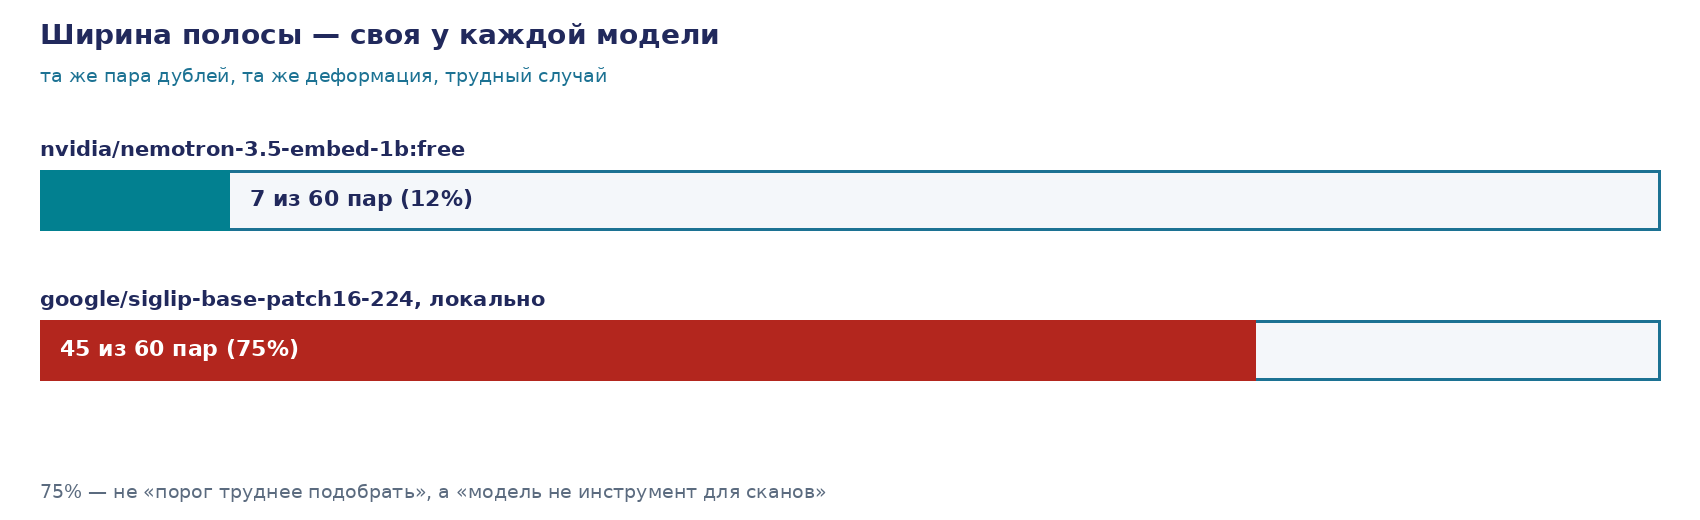
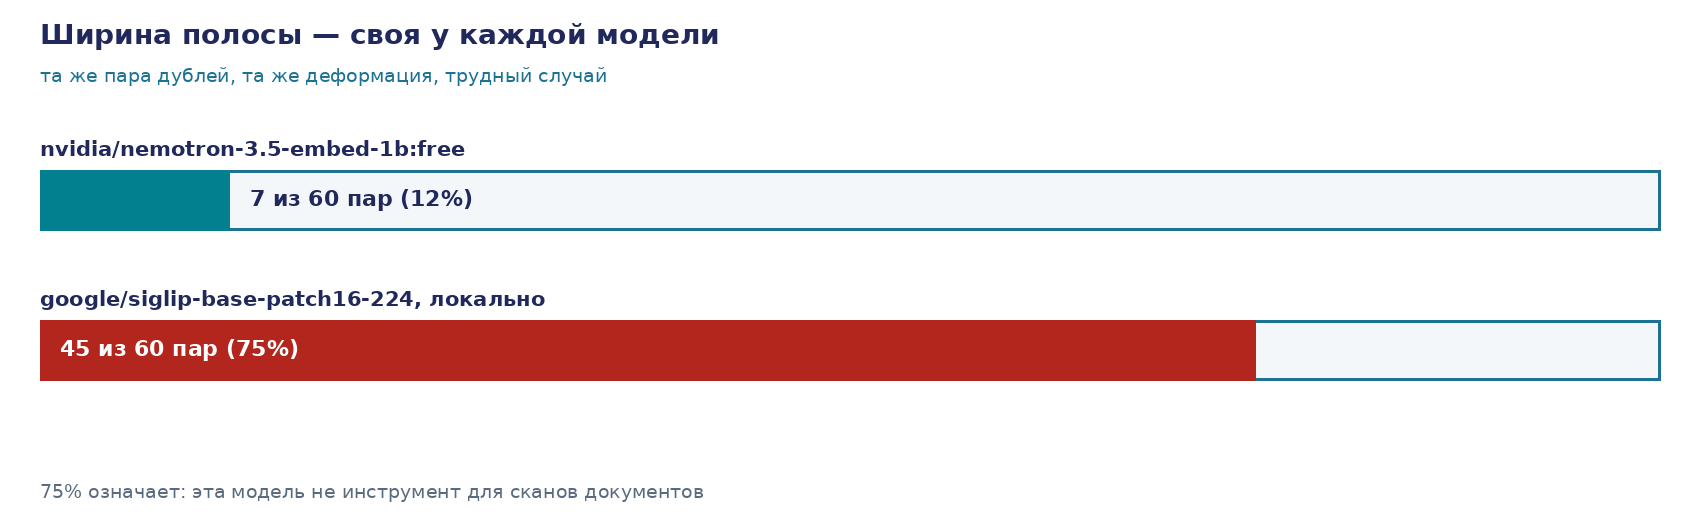
#351 Кейс 4: правка по замечаниям оркестратора — подпись в PNG, заметки до нормы, «методическая»
- case4-model-compare.png: подпись переписана утверждением (была в формате
  «не X, а Y», спрятанном от грепа markdown внутри картинки)
- заметки шести слайдов (n65, n67, n70, n71, n76, n78) доведены до
  коридора 250-450 слов содержательным разбором (чем деформации
  отличаются по сути, как устроен разбор кандидатов, цена границы для
  архива Ольги), не добивкой счёта
- раздел главы: последнее вхождение «методическая» заменено утверждением
- повторный сплошной (не построчный) скан на формат сопоставления
  «не X, а Y» — 0 совпадений в видимом теле всех 15 слайдов и раздела главы

Changed region(s): [[0.0624, 0.9231, 0.4988, 0.9846]]

diff --git a/library/seminars/sem-12/rendered/make_figures_k4.py b/library/seminars/sem-12/rendered/make_figures_k4.py
@@ -229,7 +229,7 @@ def case4_model_compare():
         tc = DEEP if share < 0.6 else W
         d.text((tx, y + 15), f"{label} ({share*100:.0f}%)", font=f(22, True), fill=tc)
         y += 150
-    d.text((bx0, y + 10), "75% — не «порог труднее подобрать», а «модель не инструмент для сканов»",
+    d.text((bx0, y + 10), "75% означает: эта модель не инструмент для сканов документов",
            font=f(19), fill=MUTE)
     save(im, "case4-model-compare.png")
 

diff --git a/library/seminars/sem-12/slides/n70-k4-lyogkiy-sluchay.md b/library/seminars/sem-12/slides/n70-k4-lyogkiy-sluchay.md
@@ -35,4 +35,6 @@ visual:
 
 Такой результат легко спутать с доказательством того, что порог вообще не проблема: раз на одном искажении всё разделилось идеально, может быть, беспокоиться не о чем? Именно для того, чтобы не делать этот поспешный вывод, канон этого курса требует рядом с любым нулевым результатом показывать трудный случай той же самой задачи. Лёгкий случай здесь — необходимая проверка честности, не украшение и не запасной вариант: если бы даже трудный случай дал похожий чистый зазор, это значило бы, что искажение было подобрано слишком мягким и ничего не доказывает. Признак лёгкого случая просто устроен: ответ ищется почти готовым, отличие между классами грубое, задача решается первым попавшимся порогом.
 
-Пересжатие с небольшим изменением размера — это именно такая мягкая деформация: детали документа смещаются незначительно, модель узнаёт исходный документ уверенно. Но у архива Ольги реальные сканы редко ограничиваются аккуратным повторным сканированием: чаще документ переснимают телефоном, под углом, не глядя в видоискатель. Что происходит с тем же порогом, когда искажение становится таким, следующим тактом — и там зазор исчезает.
+Пересжатие с небольшим изменением размера — это именно такая мягкая деформация, и важно понимать почему: уменьшение размера на несколько процентов и более сильное сжатие JPEG меняют яркость отдельных пикселей, но не трогают геометрию документа вообще. Строки текста остаются на тех же местах, таблица — той же формы, края листа — там же, где были. Для модели, которая обучена узнавать документ по расположению крупных элементов и почти не чувствительна к яркости отдельного пикселя, это искажение почти не искажение: внутреннее представление документа в её «памяти» сдвигается на незначительную величину, и узнавание держится уверенно.
+
+Но у архива Ольги реальные сканы редко ограничиваются аккуратным повторным сканированием одного и того же листа на одном и том же сканере: чаще документ переснимают телефоном на бегу, под углом, не глядя в видоискатель, и край кадра обрезает часть листа. Это уже не изменение яркости — это изменение самой геометрии: строки смещаются, пропорции листа меняются, часть содержимого пропадает из кадра насовсем. Что происходит с тем же порогом, когда искажение становится именно таким, разбирается следующим тактом — и там зазор исчезает.

diff --git a/library/seminars/sem-12/slides/n76-k4-realnoe-ustroystvo.md b/library/seminars/sem-12/slides/n76-k4-realnoe-ustroystvo.md
@@ -32,3 +32,5 @@ visual:
 То есть по букве документа ответственная организация уже сделала самый осторожный из четырёх возможных выборов. И этот выбор не спас ни Роберта Уильямса, ни Порчу Вудрафф от ареста. Разрыв между написанным правилом и реальным событием случился не в алгоритме и не в пороге — он случился на следующем шаге процесса, которого эта ось сравнения вообще не описывает: наводку от системы превратили в опознание через отдельную процедуру предъявления для опознания, а эту процедуру, в свою очередь, превратили в основание для ареста.
 
 Это важный урок для самого способа, которым кейс сегодня разбирал четыре варианта. Выбор правильного варианта оси — порог, полоса или список — не гарантирует правильного исхода сам по себе, если организация не контролирует, что происходит с результатом на следующем шаге. Список без вердикта снимает ответственность с модели, но не снимает её с организации: кто-то в цепочке всё равно должен нести полномочие сказать «нет» удобному верхнему кандидату списка, и именно этого полномочия не хватило в обоих описанных случаях. Какое письменное правило появилось после этого — разбирается следующим тактом.
+
+Стоит назвать, как именно разбор списка кандидатов был устроен на практике в обоих случаях, потому что слабое место сидит в том, что происходит с верхней строкой, а сам список здесь безобиден. Аналитик получал список похожих фотографий, выбирал одну или несколько верхних карточек как «вероятных» — субъективно, без порога и без второй проверки, — и именно эта карточка дальше шла в процедуру предъявления для опознания живому свидетелю или потерпевшему. Свидетелю показывали составленный из нескольких похожих лиц планшет, где одна позиция была подсказана системой заранее — весь список и исходная фотография из базы до него уже не доходили. Опознание, сделанное человеком на этом шаге, выглядело как независимое подтверждение, но фактически строилось на той же самой верхней строке списка, которую выбрал аналитик, — независимого второго источника доказательства не было ни в одном из описанных случаев.

diff --git a/library/seminars/sem-12/slides/n78-k4-granitsa.md b/library/seminars/sem-12/slides/n78-k4-granitsa.md
@@ -35,3 +35,5 @@ visual:
 Но как только похожая ошибка задевает человека напрямую — опознание личности, решение о допуске куда-либо, отказ в услуге, — обратимости у неё уже нет. Тридцать часов в изоляторе не отменяются извинением; снятое через месяц обвинение не возвращает украденный месяц жизни. В этой зоне процесс обязан только помечать кандидата и останавливаться на человеке, не решать самостоятельно — том, у кого есть явное полномочие принять решение и кто обязан подкрепить его отдельным, независимым от системы доказательством.
 
 Это ровно то, что регламент, разобранный предыдущим тактом, требует письменно, а организационная практика предыдущих лет не обеспечивала сама по себе. Граница этого кейса, в итоге, записана не курсом — она записана судом, по итогам реального случая, и это куда более весомый источник, чем любая формулировка со слайда.
+
+Для архива Ольги эта граница — конкретное решение про то, где в её коде вообще нужен порог. Склейка двух одинаковых сканов в один документ или два разных кандидата на удаление дубликата — это именно та дешёвая и обратимая ошибка, где единственный порог годится: если полоса неопределённости для её выборки занимает, по измерению этого кейса, от одной десятой до трёх четвертей пар в зависимости от модели, все пары из этой полосы просто откладываются на ручной просмотр, без автоматического угадывания — это дороже по времени, но дешевле по риску. Представим ту же полосу неопределённости в системе допуска людей к чему-либо по фотографии вместо архива документов: цена сразу становится другой — это уже решение об отказе конкретному человеку, которое нельзя отдать на откуп порогу вовсе.

diff --git a/library/seminars/sem-12/slides/n65-k4-divider.md b/library/seminars/sem-12/slides/n65-k4-divider.md
@@ -32,3 +32,5 @@ visual:
 Этот кейс про последний шаг, который до сих пор никто не разбирал отдельно: что делать с этим числом. Где-то в коде стоит строка вида «если похожесть больше такого-то значения — считать документы одинаковыми», и это решение почти всегда принимают один раз, по примеру из документации, а потом забывают, что оно вообще было принято. Интуиция, с которой зал обычно подходит к этому месту, звучит ровно и просто: если порог кажется недостаточно строгим и пропускает ложные совпадения, порог нужно поднять, и проблема решится.
 
 Сегодняшний кейс эту интуицию проверяет числами на собственном замере, не рассуждением — и число, которое интуиция не учитывает, окажется неприятным: поднятие порога переносит ошибку на другой вид, не убирает её, и сумма двух видов ошибки на трудном случае не опускается до нуля ни при каком выборе. Цена невнимательного решения в этой строке кода — не абстрактная: у кейса есть документированный реальный случай, где такая невнимательность стоила человеку свободы. С этого случая кейс и начинается — следующим тактом.
+
+Это решение редко пересматривают после того, как оно принято один раз: число из чужого примера в документации кочует из проекта в проект как «проверенное на практике», даже когда искажения на новых сканах архива совсем не те, что были в примере. Порог — это свойство конкретной пары «модель плюс искажение плюс выборка», и это почти никогда не написано рядом с самим числом. Поэтому вопрос этого кейса звучит иначе: на чьих данных и под какое искажение этот порог вообще проверялся — и ответ на него сегодня даёт собственный замер на архиве Ольги, не мнение.

diff --git a/library/seminars/sem-12/slides/n71-k4-trudnyy-sluchay.md b/library/seminars/sem-12/slides/n71-k4-trudnyy-sluchay.md
@@ -41,3 +41,5 @@ visual:
 Это именно тот результат, ради которого трудный случай и нужен: он по-настоящему ломает чистую картину лёгкого случая, не просто повторяет её. Поворот документа на угол и срез края — обычное дело при съёмке телефоном, не редкое исключение, и именно на этом обычном искажении единственный порог перестаёт справляться безошибочно.
 
 Естественная реакция на такую картину — поднять порог выше, чтобы отсечь шесть ложных совпадений и оставить только настоящие. Подтверждает ли число замера эту интуицию или только ощущение подсказывало простое решение — показывает следующий такт: там же выясняется цена этого решения для той единственной пары, которая и так еле держалась внутри полосы.
+
+Стоит ещё раз явно назвать, чем поворот и обрезка отличаются от пересжатия по самой своей сути, глубже итогового результата. Пересжатие меняет яркость пикселей и почти не трогает геометрию листа; поворот на угол и срез края меняют именно геометрию — то самое, по чему модель узнаёт документ в первую очередь. После поворота строки текста больше не идут горизонтально, таблица смотрит под углом, а после обрезки часть содержимого по краю исчезает из кадра насовсем, и восстановить её модели нечем. Для модели, которая сравнивает общее расположение крупных элементов на листе, это ближе к показу другого документа, чем к показу того же самого под шумом — и именно поэтому даже самая слабая из тридцати настоящих пар здесь почти перестаёт быть похожей на себя.

diff --git a/library/seminars/sem-12/slides/n67-k4-vopros.md b/library/seminars/sem-12/slides/n67-k4-vopros.md
@@ -38,3 +38,5 @@ visual:
 Список кандидатов без вердикта — система вообще не произносит «тот же» или «другой»: она отдаёт ранжированный список похожих документов, а решение целиком остаётся за человеком. Этот вариант снимает с модели саму задачу опознания и перекладывает её на того, кто смотрит список.
 
 Пятнадцать секунд на голосование. Прежде чем выбирать, стоит держать в голове: чем меньше автоматики в решении, тем дороже по времени каждая отдельная пара документов: это компромисс, бесплатных улучшений среди них нет. Какой из четырёх вариантов что в итоге даёт на собственном распределении похожести архива — разбирается следующим тактом, числами замера, не предположением.
+
+Важно заметить и то, чего на этих карточках нет. Ни одна из четырёх формулировок не называет конкретного числа порога, не говорит, какая доля пар попадёт в полосу неопределённости, и не утверждает, что какой-то вариант заведомо лучше остальных на любой задаче. Это сделано намеренно: любой из четырёх вариантов можно защитить разумным доводом, и выбор между ними — это ещё не ошибка, ошибка начинается там, где выбор сделан один раз и больше никогда не проверяется на собственных данных задачи, для которой он был сделан.

diff --git a/library/seminars/sem-12/rework/section-4-keys-4.md b/library/seminars/sem-12/rework/section-4-keys-4.md
@@ -200,8 +200,8 @@ SigLIP (`google/siglip-base-patch16-224`, без единого сетевого
 и для этого пересечения диапазонов достаточно, чтобы ответ был «нет», даже если поиск по
 первому соседу почти всегда справляется. Мост между двумя кейсами ровно в этом: «поиск не
 находит документ» и «порог не разделяет выборку» — два разных отказа, оба ненулевые, разного
-размера, и смешивать их в один вывод — методическая ошибка сама по себе, которую этот курс
-как раз и учит не совершать.
+размера, и смешивать их в один вывод значит приписать второму кейсу результат первого — ошибка,
+которую этот курс как раз и учит не совершать.
 
 ## Урок измерения — когда проверка оценивает сама себя
 
